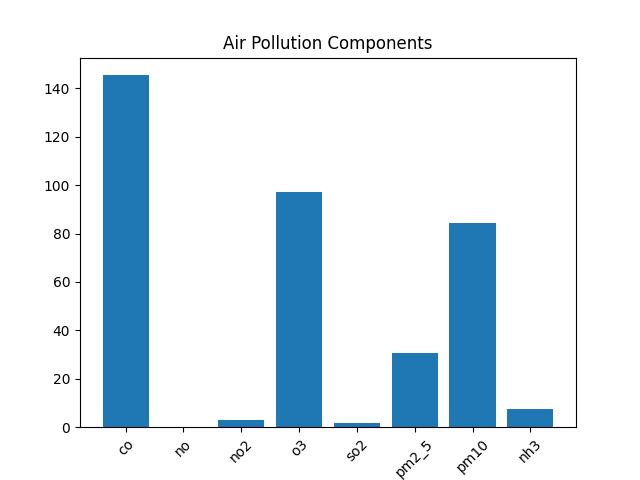
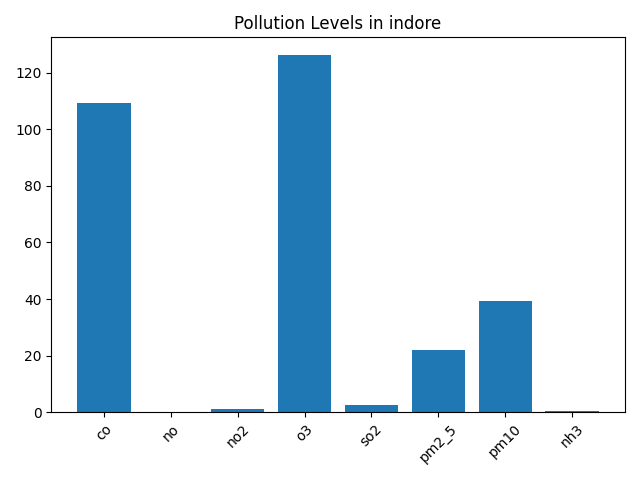
updated UI

diff --git a/AQI PREDICTION APP/templates/index.html b/AQI PREDICTION APP/templates/index.html
@@ -1,104 +1,39 @@
 <!DOCTYPE html>
 <html>
 <head>
-    <title>AQI Predictor</title>
-
-    <style>
-        body {
-            font-family: Arial, sans-serif;
-            background: linear-gradient(to right, #56ccf2, #2f80ed);
-            margin: 0;
-            padding: 0;
-        }
-
-        .container {
-            width: 350px;
-            margin: 80px auto;
-            background: white;
-            padding: 30px;
-            border-radius: 12px;
-            box-shadow: 0px 8px 20px rgba(0,0,0,0.2);
-            text-align: center;
-        }
-
-        h2 {
-            margin-bottom: 20px;
-            color: #333;
-        }
-
-        input[type="text"] {
-            width: 90%;
-            padding: 10px;
-            margin: 10px 0;
-            border: 1px solid #ccc;
-            border-radius: 6px;
-            font-size: 14px;
-        }
-
-        input[type="submit"] {
-            background: #2f80ed;
-            color: white;
-            border: none;
-            padding: 10px 20px;
-            border-radius: 6px;
-            cursor: pointer;
-            font-size: 16px;
-            transition: 0.3s;
-        }
-
-        input[type="submit"]:hover {
-            background: #1c60c7;
-        }
-
-        .result {
-            margin-top: 20px;
-            font-size: 18px;
-            color: #2f80ed;
-            font-weight: bold;
-        }
-
-        .aqi {
-            margin-top: 15px;
-            font-size: 16px;
-            color: #444;
-        }
-
-        img {
-            margin-top: 15px;
-            border-radius: 8px;
-        }
-    </style>
+    <title>AQI Dashboard</title>
+    <link rel="stylesheet" href="{{ url_for('static', filename='css/style.css') }}">>
 </head>
 
 <body>
 
-<div class="container">
-    <h2>🌫 AQI Prediction App</h2>
+<div class="dashboard">
 
-    <form method="POST">
-        <input type="text" name="pm25" placeholder="Enter PM2.5" required>
-        <input type="text" name="pm10" placeholder="Enter PM10" required>
-        <br>
-        <input type="submit" value="Predict AQI">
+    <h1>🌫 Air Quality Dashboard</h1>
+
+    <form method="POST" class="form">
+        <input type="text" name="city" placeholder="Enter city" required>
+        <input type="text" name="pm25" placeholder="PM2.5">
+        <input type="text" name="pm10" placeholder="PM10">
+        <button type="submit">Analyze</button>
     </form>
 
-    <!-- Prediction -->
-    {% if prediction is not none %}
-        <div class="result">
-            Predicted AQI: {{ prediction }}
-        </div>
+    {% if aqi_text %}
+    <div class="card">
+        <h2>{{ aqi_text }}</h2>
+    </div>
     {% endif %}
 
-    <!-- API AQI -->
-    {% if aqi is not none %}
-        <div class="aqi">
-            Current AQI: {{ aqi }}
-        </div>
+    {% if prediction %}
+    <div class="card">
+        <h3>{{ prediction }}</h3>
+    </div>
     {% endif %}
 
-    <!-- Graph -->
     {% if graph %}
-        <img src="{{ url_for('static', filename='graph.png') }}" width="100%">
+    <div class="card">
+        <img src="{{ url_for('static', filename=graph) }}">
+    </div>
     {% endif %}
 
 </div>

diff --git a/AQI PREDICTION APP/static/CSS/style.css b/AQI PREDICTION APP/static/CSS/style.css
@@ -1,0 +1,39 @@
+body {
+    margin: 0;
+    font-family: 'Segoe UI', sans-serif;
+    background: #0f172a;
+    color: white;
+}
+
+.dashboard {
+    width: 600px;
+    margin: 50px auto;
+    text-align: center;
+}
+
+h1 {
+    margin-bottom: 20px;
+}
+
+.form input {
+    padding: 10px;
+    margin: 5px;
+    border-radius: 5px;
+    border: none;
+}
+
+.form button {
+    padding: 10px 15px;
+    background: #38bdf8;
+    border: none;
+    color: black;
+    border-radius: 5px;
+    cursor: pointer;
+}
+
+.card {
+    background: #1e293b;
+    padding: 20px;
+    margin-top: 20px;
+    border-radius: 10px;
+}
